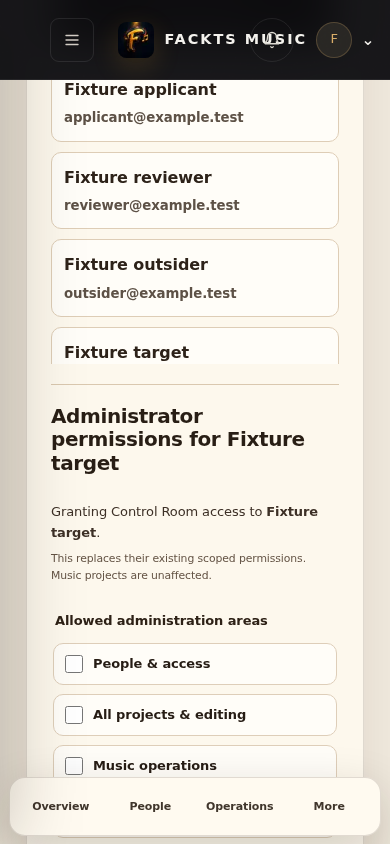
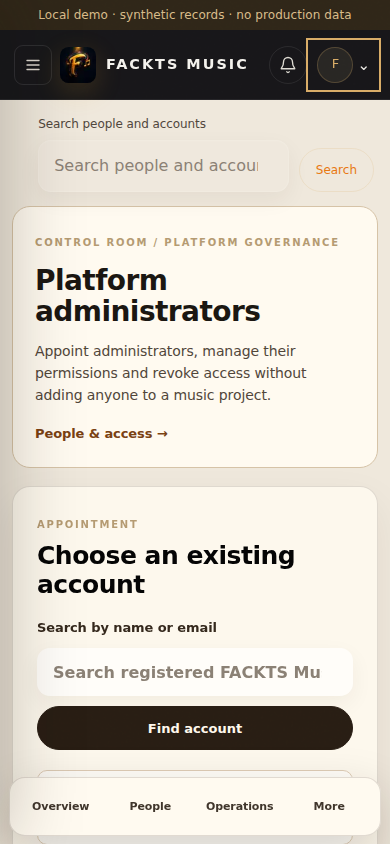
Stabilize browser retry checks and settled mobile evidence

Changed region(s): [[0.0, 0.0, 1.0, 0.9242], [0.9231, 0.2464, 0.9846, 0.5545], [0.5231, 0.5853, 0.8308, 0.6161]]

diff --git a/docs/Session2Finalisation.md b/docs/Session2Finalisation.md
@@ -44,6 +44,8 @@ Security references checked on 26 October: [Next.js maintainer update](https://n
 | Production public-header audit | PASS | 140 anonymous/signed-in route/viewport combinations |
 | Production Session 2 browser suite | PASS | 19 scenarios against optimized production build, including the saved selector state |
 
+CI exposed a synchronization gap when retrying a simulated failed Like after mobile search input. The regression now waits for the visible failure and cleared busy state, blurs search, and centres the control before retrying; the rollback/persistence assertions remain. Mobile administrator evidence additionally waits for real non-overlapping header geometry and exercises the account menu before capture. No product code or styles changed for this CI correction.
+
 The browser suite uses real DOM/form interactions and the actual application server, with an isolated HTTP Supabase fixture. It verifies UI → Server Action authentication/authorization → REST requests → rendered feedback. It does **not** exercise real GoTrue credentials, deployed Supabase RLS, private cloud storage or delivery of external email. PostgreSQL tests separately execute actual committed SQL in PGlite; this is not a deployed multi-connection concurrency test.
 
 ## Professional onboarding acceptance evidence
@@ -90,7 +92,7 @@ Closure requires these gates plus owner review. Local green checks do not substi
 
 ## Evidence and local reproduction
 
-Browser evidence is in [session2-evidence](session2-evidence/). All records shown are synthetic. Representative screenshots: [approved applicant on mobile](session2-evidence/ApplicantMobileApproved.webp), [reviewer on desktop](session2-evidence/ReviewDesktopApproved.webp), [administrators on desktop](session2-evidence/AdministratorsDesktop.webp) and [mobile](session2-evidence/AdministratorsMobile.webp), [collaboration on desktop](session2-evidence/CollaborationDesktop.webp) and [mobile](session2-evidence/CollaborationMobile.webp). Results.json lists the 19 UI scenarios and REST write destinations, without credentials. CI also uploads the full browser artifact directories.
+Browser evidence is in [session2-evidence](session2-evidence/). All records shown are synthetic. Approval, review and desktop collaboration captures use local production rendering; the refreshed administrator mobile capture uses development rendering and visibly labels the synthetic data. Representative screenshots: [approved applicant on mobile](session2-evidence/ApplicantMobileApproved.webp), [reviewer on desktop](session2-evidence/ReviewDesktopApproved.webp), [administrators on desktop](session2-evidence/AdministratorsDesktop.webp) and [mobile](session2-evidence/AdministratorsMobile.webp), [collaboration on desktop](session2-evidence/CollaborationDesktop.webp) and [mobile](session2-evidence/CollaborationMobile.webp). Results.json lists the 19 UI scenarios and REST write destinations, without credentials. CI also uploads the full browser artifact directories.
 
 Existing preview: https://kreyoh-git-feat-session2-p-291188-fackts-africa-groups-projects.vercel.app
 
